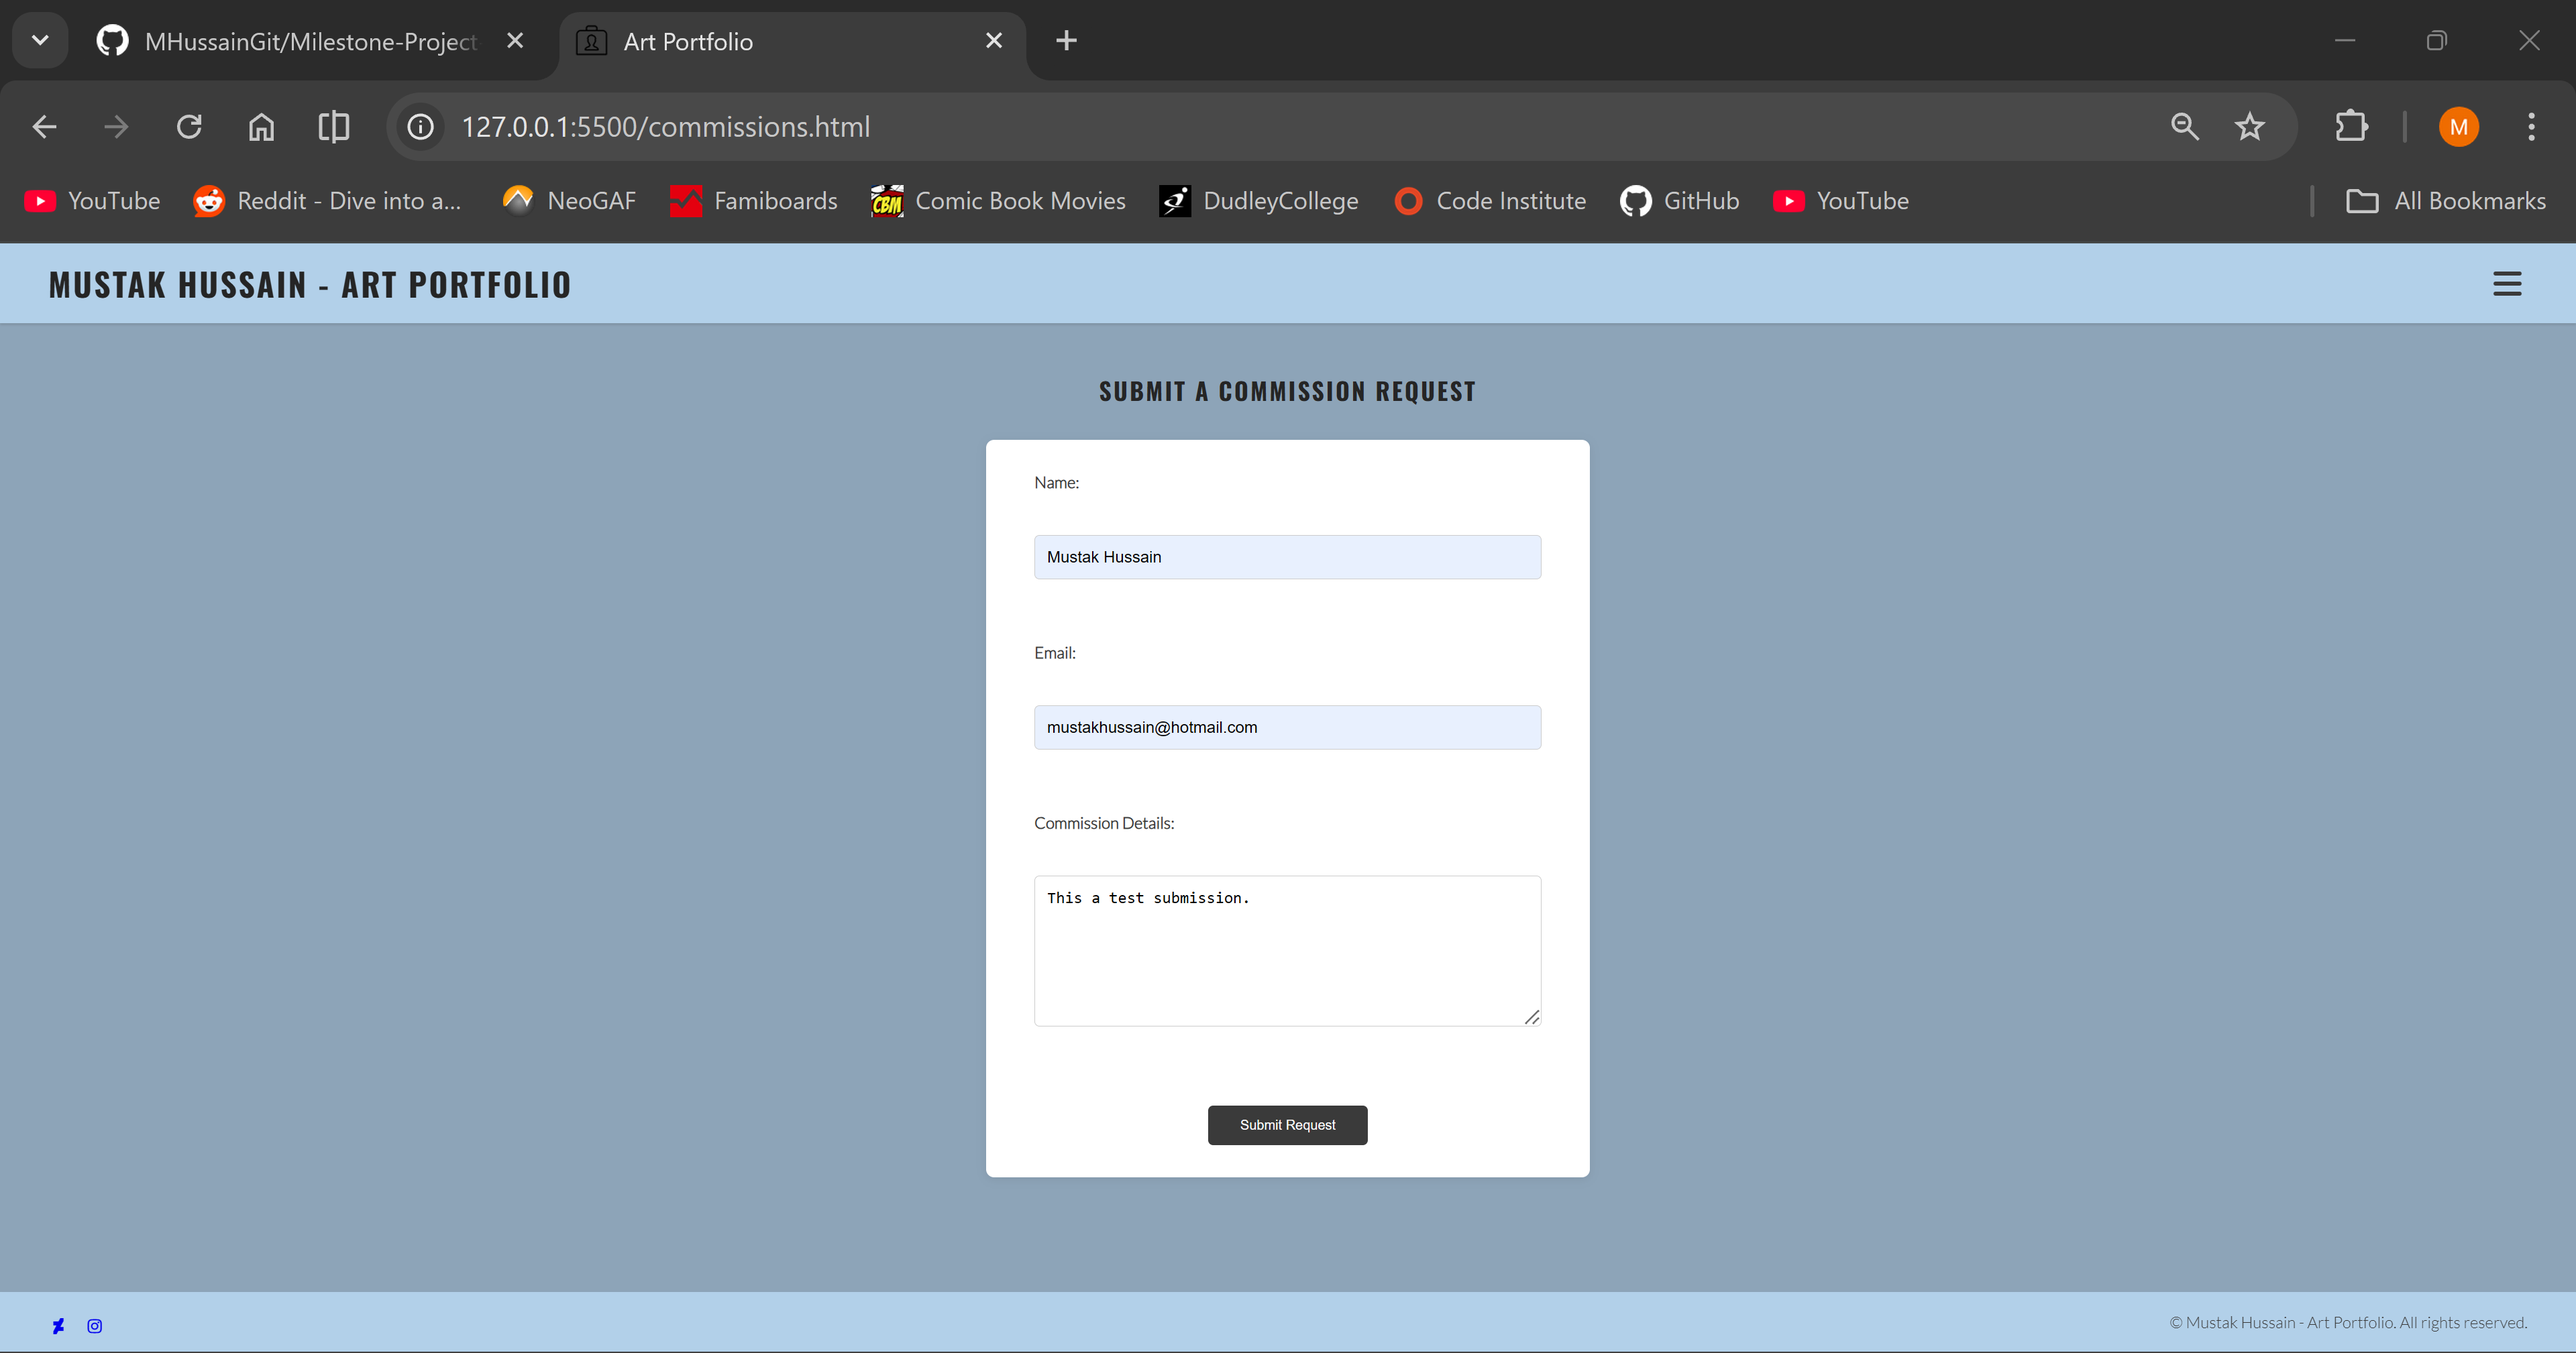
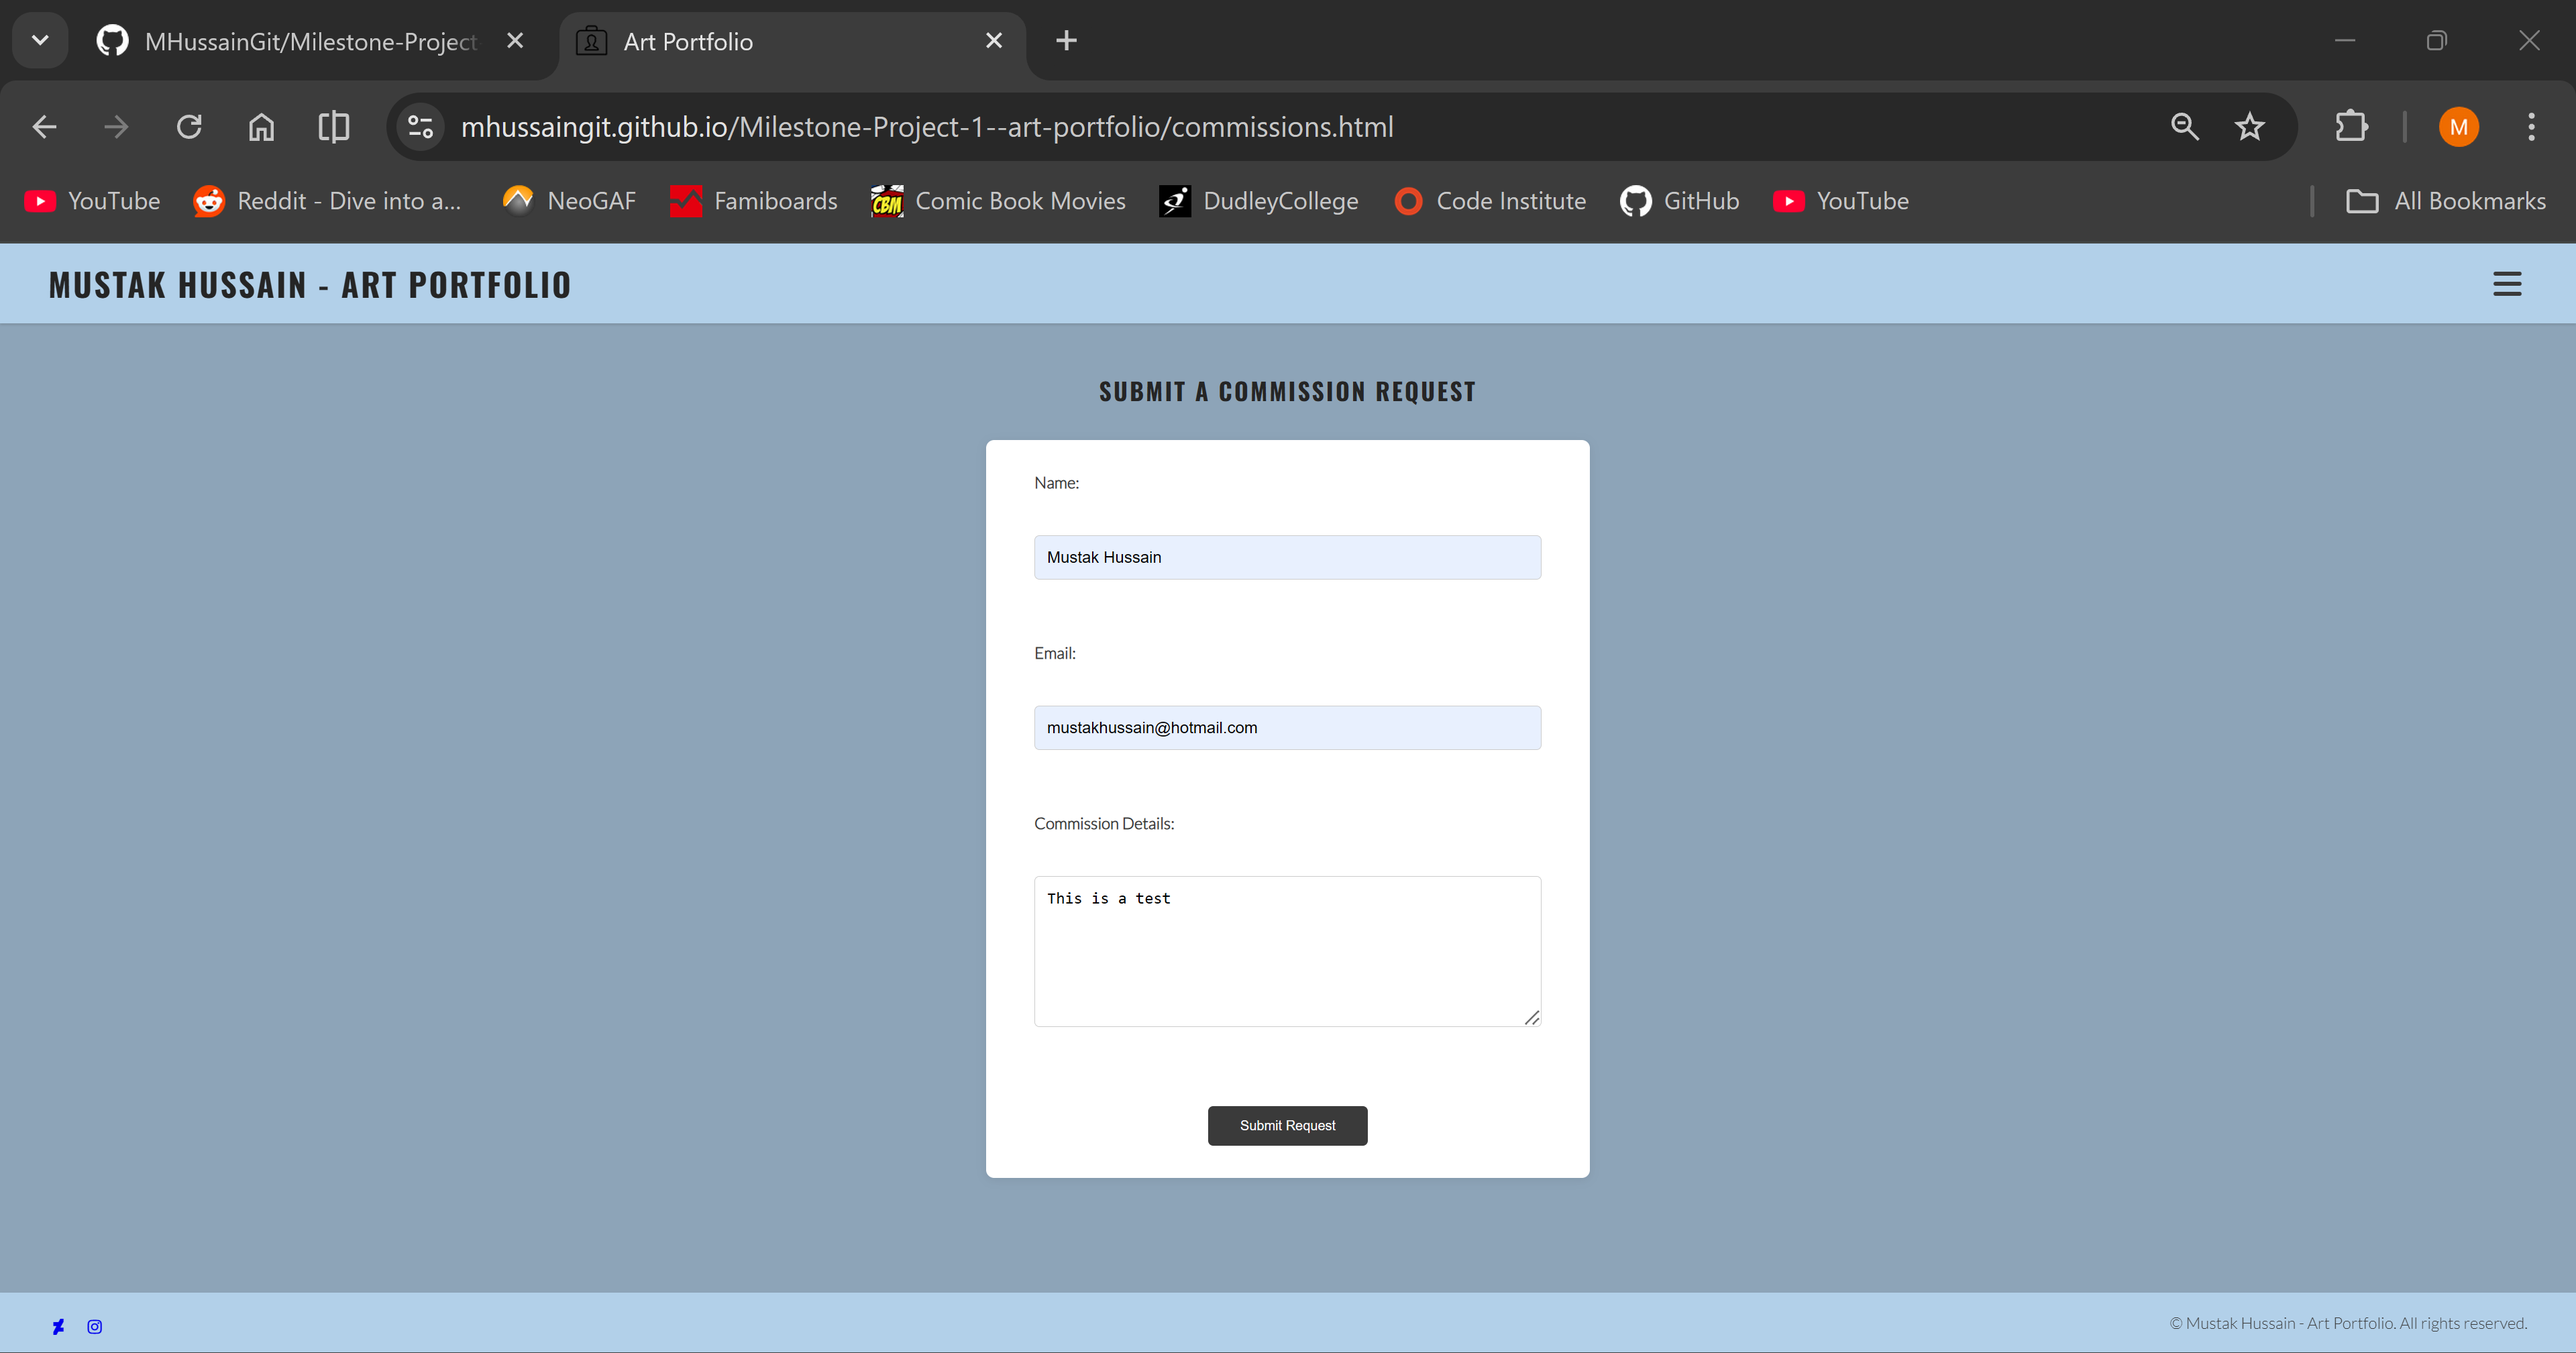
Added more screenshots to the readme

Changed region(s): [[0.1562, 0.0625, 0.9062, 0.1249], [0.4062, 0.531, 0.4688, 0.5622], [0.4375, 0.6559, 0.4688, 0.6872]]

diff --git a/README.md b/README.md
@@ -349,7 +349,8 @@ Usability testing was conducted to ensure the site is easy to navigate for all u
 #### Lighthouse Accessibility Audit:
 - Action: Ran Google Chrome's Lighthouse tool to check for contrast and ARIA labels.
 - Result: The site passed contrast checks. The custom JavaScript correctly assigns aria-label and alt text to every dynamically generated image in the gallery. (PASS)
-#### ADD SCREENSHOT HERE
+##### ![Lighthouse Desktop Home Page Accessibility](<assets/images/lighthouse-accessibility-audit.png>)
+
 
 #### Responsiveness Testing
 Responsiveness testing was conducted using Google Chrome Developer Tools and physical devices to ensure structural integrity across all screen sizes.
